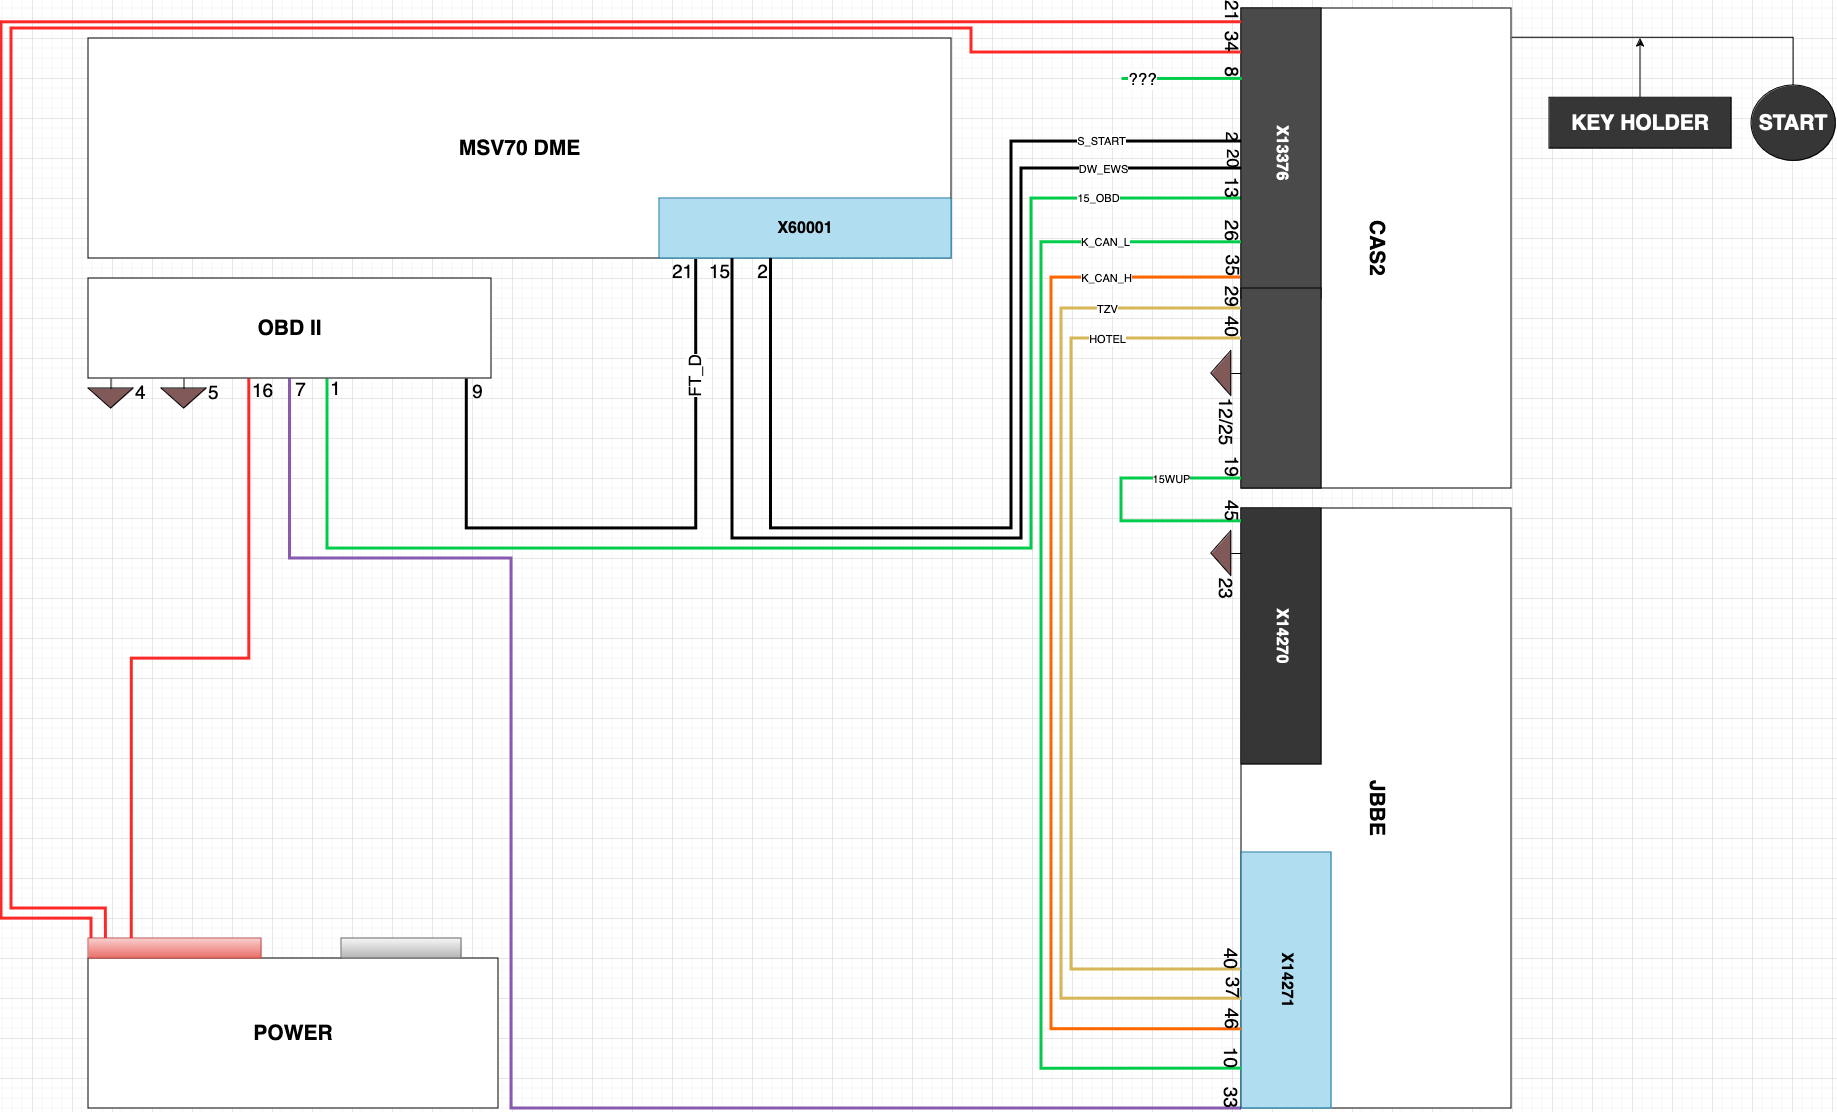
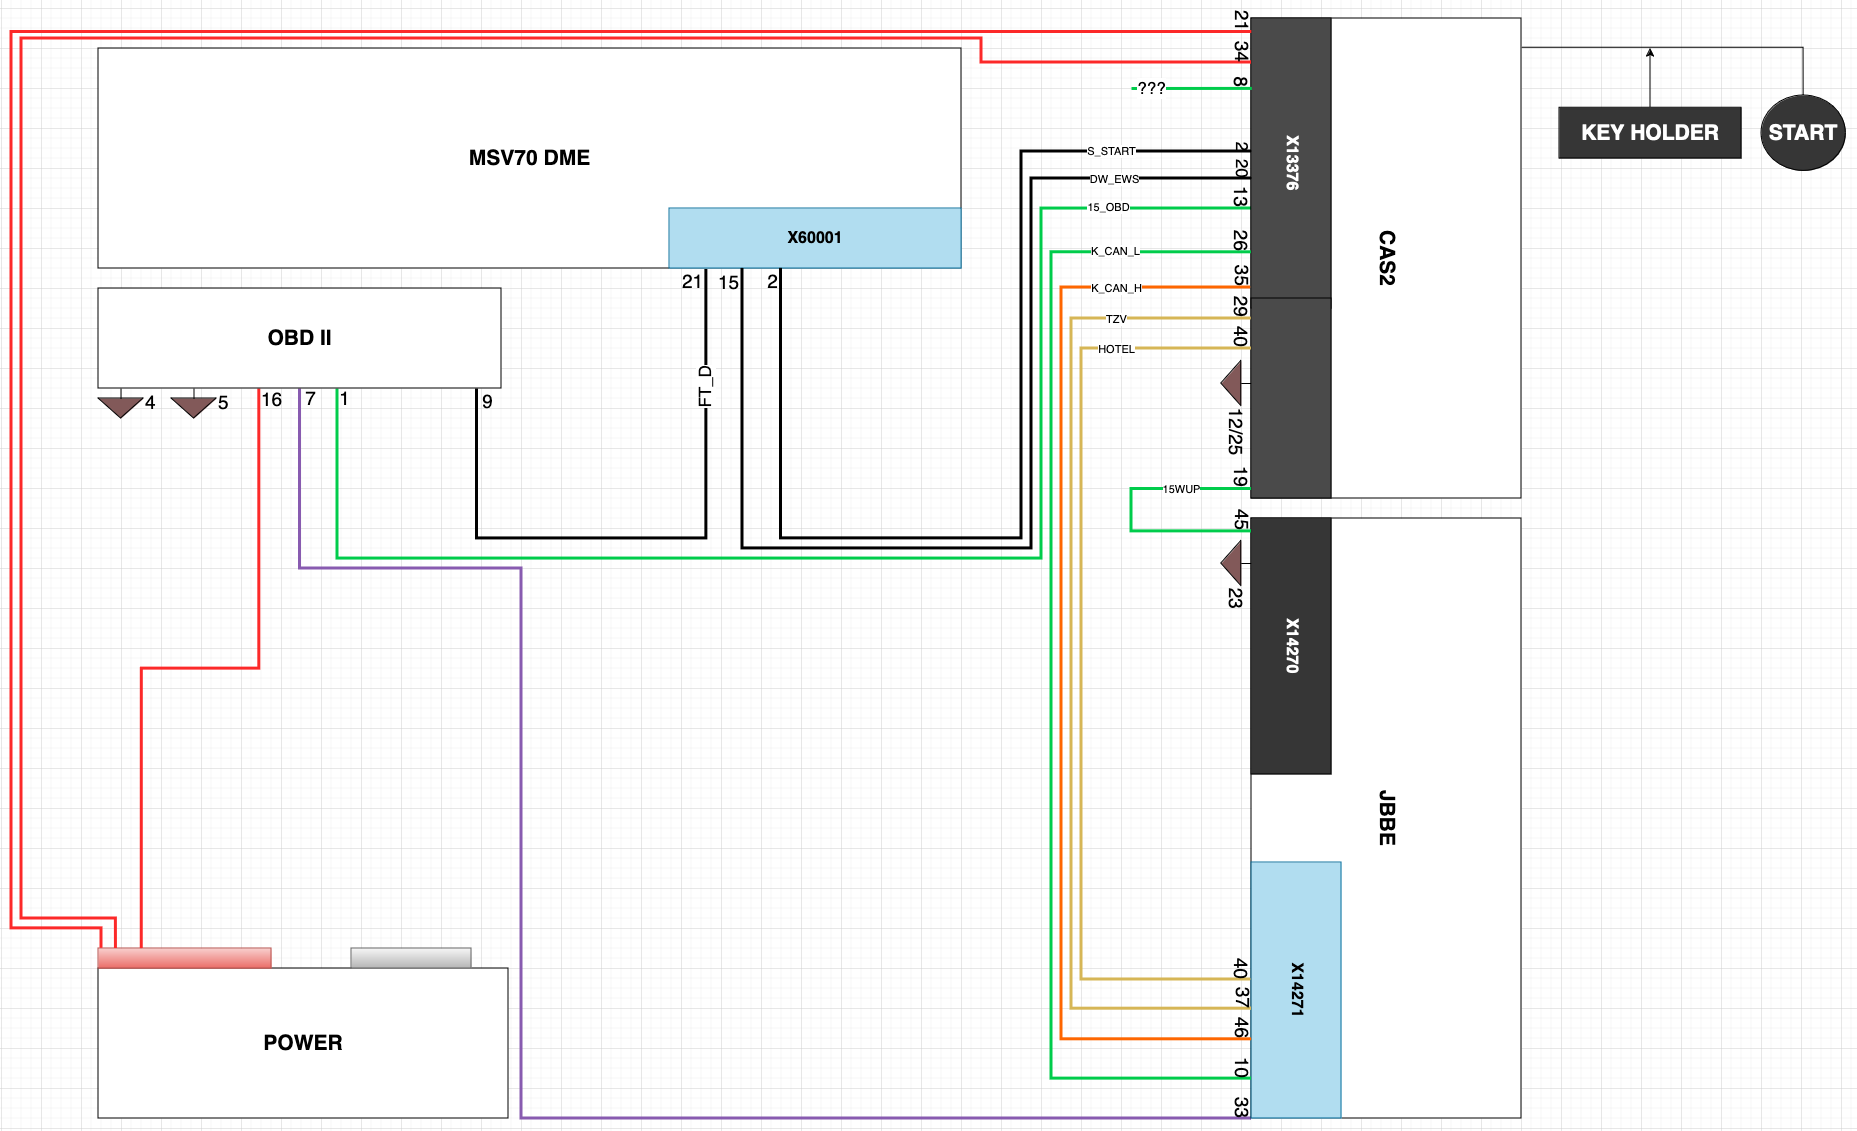
added border in diagram

diff --git a/e90-bench-platform.md b/e90-bench-platform.md
@@ -39,4 +39,4 @@ With all of that in mind, the different combinations of MSV70, MSV80, MSD80, wit
 
 I will start off by tracing the wiring diagrams, and create my own diagram to demonstrate the harness that I will be making. This is because newtis separates the diagrams into each module, and can be difficult to follow.
 
-![alt text](https://github.com/samuria/blog-posts/blob/main/E90%20Bench%20Wiring.png?raw=true)
+![alt text](https://github.com/samuria/blog-posts/blob/main/wiring-v1.png?raw=true)
